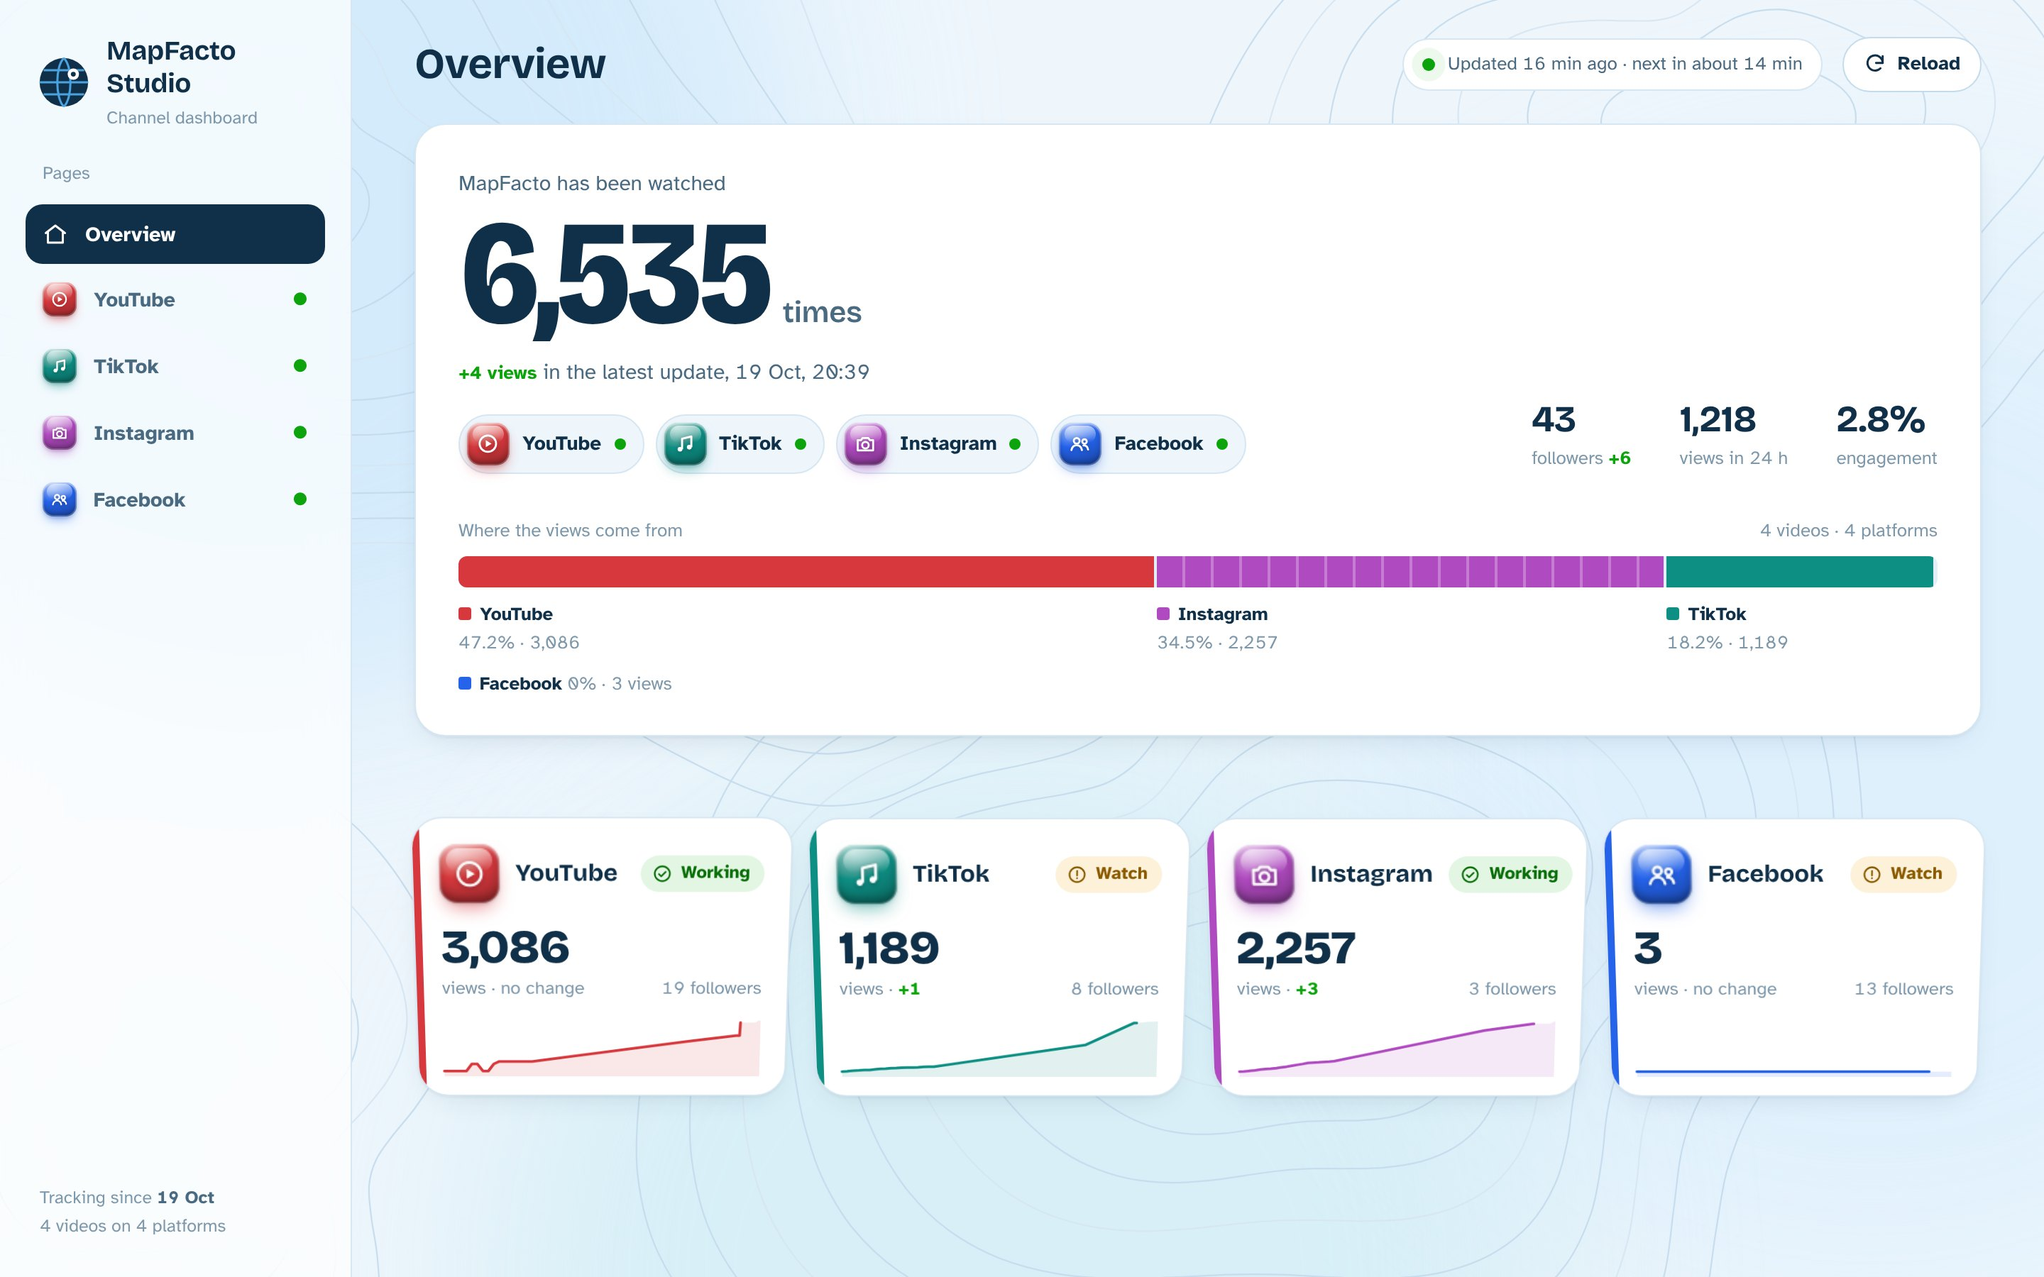
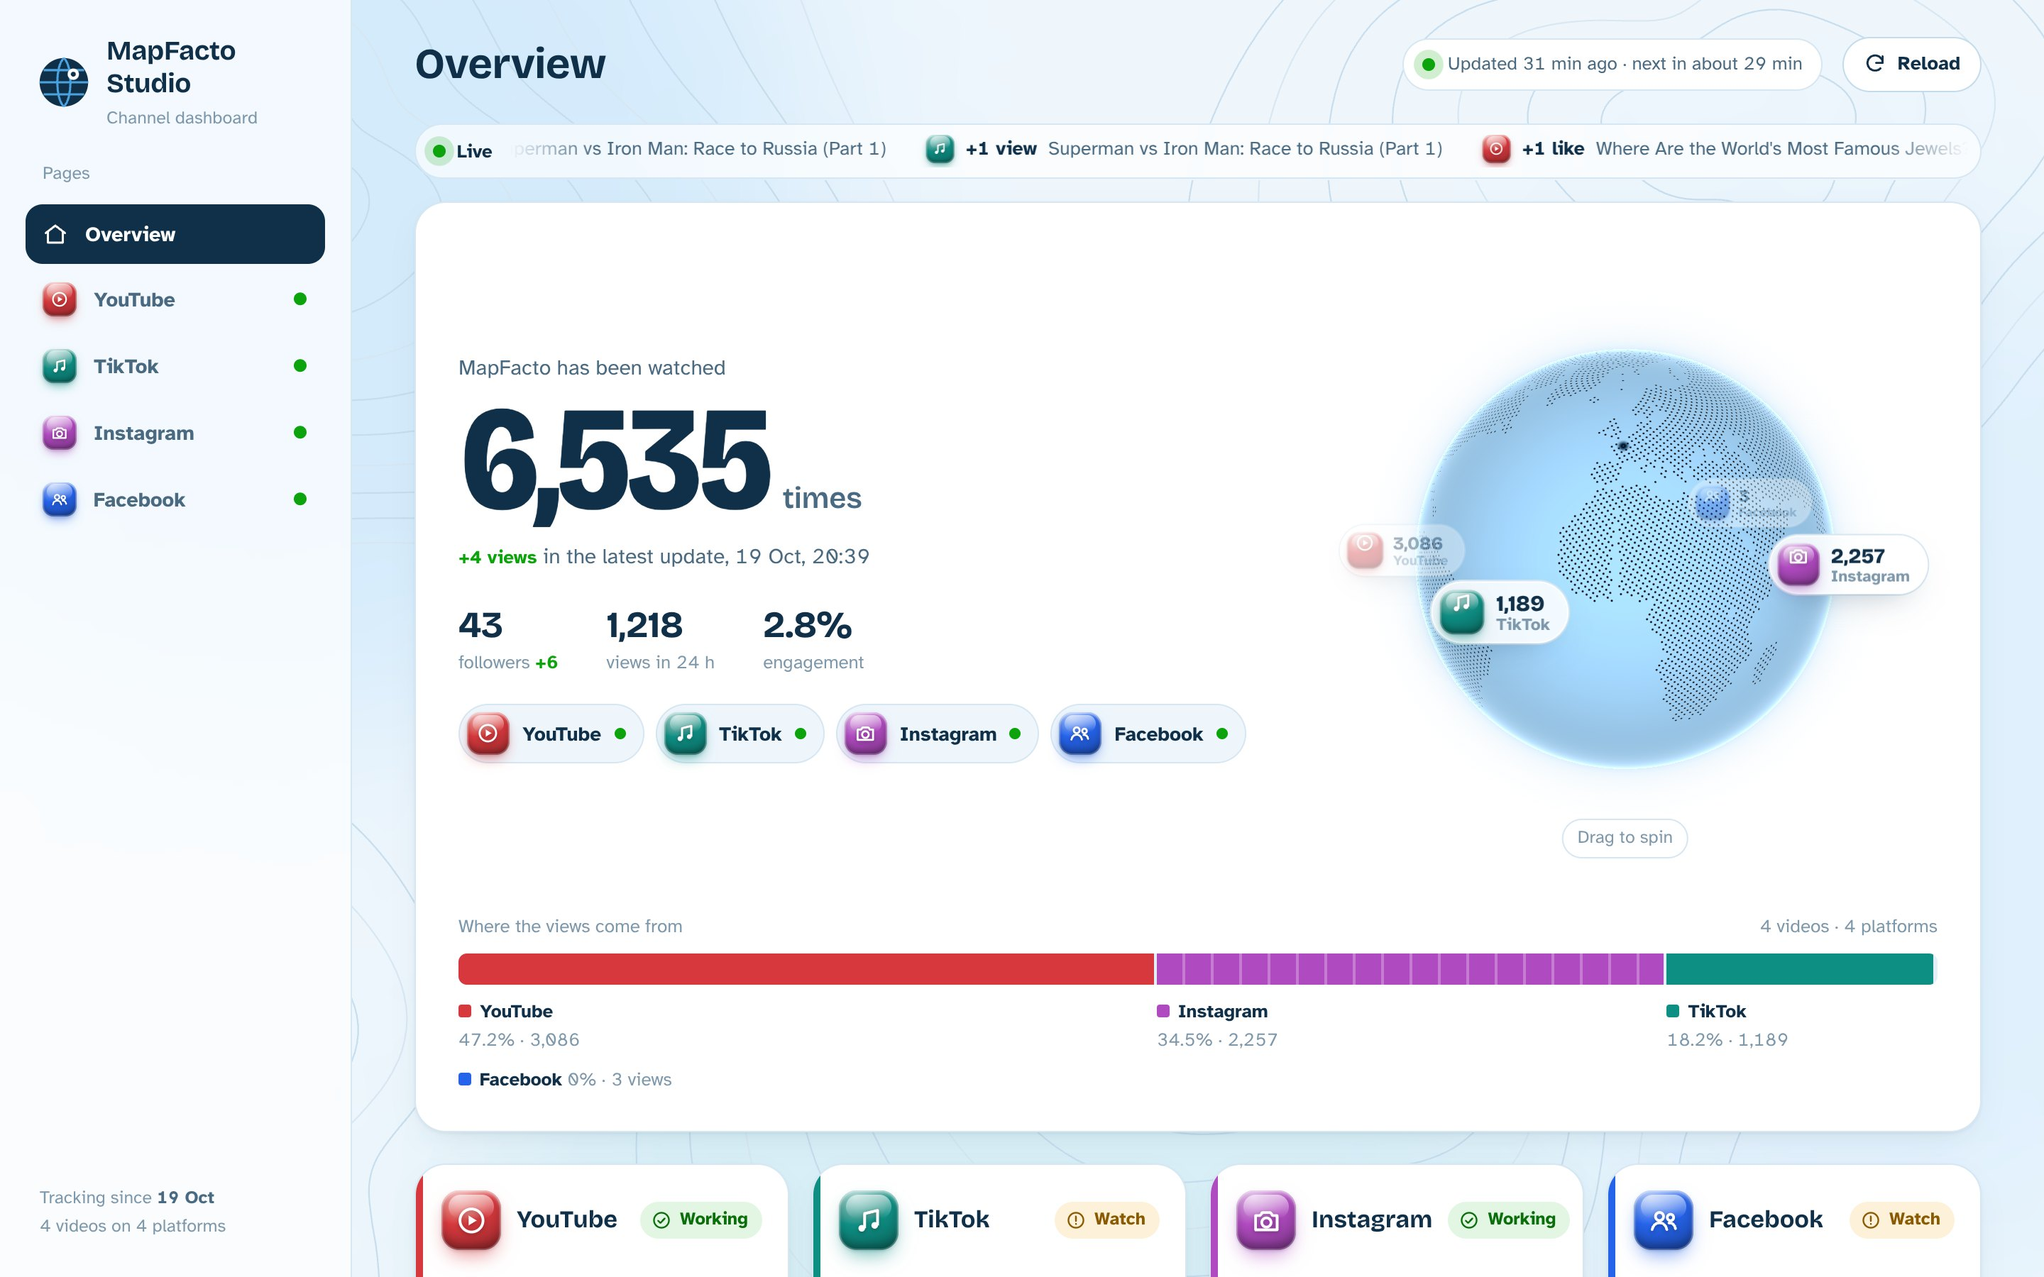
Dashboard v3: draggable globe hero and richer motion
- Hero globe (cobe, the engine behind Magic UI's Globe): dotted world in the
  sky palette with a Paris pin; grab to spin with momentum, then it drifts.
  The four platforms orbit it with their total views.
- Live ticker of the latest changes (marquee, pauses on hover).
- Card borders light up around the cursor (Magic UI magic-card effect).
- Split-text blur-in for page titles and section headings (GSAP SplitText).
- Sheen sweep across the 3D badges; cursor ring turns into a Drag label
  over the globe.
- Globe pauses when off screen; reduced-motion visitors get a still page.

Claude-Session: https://claude.ai/code/session_01W8tzriCEG18CiGamybK4oL

diff --git a/docs/styles.css b/docs/styles.css
@@ -437,3 +437,94 @@ a.btn { text-decoration: none; }
     0 1px 2px rgba(16, 48, 74, .16);
 }
 .b3d.has-logo img { position: relative; width: 66%; height: 66%; object-fit: contain; filter: drop-shadow(0 1px 1px rgba(0, 0, 0, .18)); }
+
+/* ================================================================ v3: globe hero, ticker, glow borders, sheen */
+.hero-grid { display: grid; grid-template-columns: minmax(0, 1fr) minmax(300px, 440px); gap: 24px; align-items: center; }
+.hero-copy .hero-stats { margin-top: 22px; justify-content: start; grid-template-columns: repeat(3, auto); }
+.globe-wrap { position: relative; width: 100%; aspect-ratio: 1; max-width: 440px; justify-self: end; touch-action: none; }
+.globe {
+  width: 100%; height: 100%; display: block; cursor: grab; opacity: 0; transition: opacity 1.4s ease;
+  contain: layout paint size;
+}
+.globe.on { opacity: 1; }
+.globe-wrap.grabbing .globe { cursor: grabbing; }
+.globe-wrap::before { /* soft halo */
+  content: ""; position: absolute; inset: 6%; border-radius: 50%; z-index: -1;
+  background: radial-gradient(circle at 50% 50%, rgba(74, 163, 223, .22), rgba(74, 163, 223, 0) 68%);
+}
+.orbit { position: absolute; inset: 0; pointer-events: none; }
+.sat {
+  position: absolute; left: 50%; top: 50%; display: inline-flex; align-items: center; gap: 8px; pointer-events: auto;
+  padding: 5px 12px 5px 5px; border-radius: 999px; text-decoration: none; color: var(--ink); white-space: nowrap;
+  background: rgba(255, 255, 255, .86); backdrop-filter: blur(8px); border: 1px solid rgba(255, 255, 255, .9);
+  box-shadow: 0 10px 24px -14px rgba(16, 48, 74, .5), 0 0 0 1px var(--line);
+  transition: opacity .3s; will-change: transform;
+}
+.sat span { display: flex; flex-direction: column; line-height: 1.05; font-size: 11.5px; color: var(--ink-3); font-weight: 700; }
+.sat b { font: 800 15px/1.1 var(--display); color: var(--ink); letter-spacing: -.01em; }
+.globe-hint {
+  position: absolute; left: 50%; bottom: 2%; transform: translateX(-50%); font-size: 12.5px; color: var(--ink-3);
+  background: rgba(255, 255, 255, .75); padding: 3px 10px; border-radius: 999px; border: 1px solid var(--line);
+  transition: opacity .6s;
+}
+.globe-wrap.spun .globe-hint { opacity: 0; }
+.globe-wrap.no-webgl .globe { display: none; }
+
+/* live ticker (marquee) */
+.ticker {
+  display: flex; align-items: center; gap: 12px; margin-bottom: 16px; padding: 7px 8px 7px 12px; overflow: hidden;
+  background: rgba(255, 255, 255, .7); backdrop-filter: blur(10px); border: 1px solid var(--line); border-radius: 999px;
+}
+.ticker-label { display: inline-flex; align-items: center; gap: 8px; font-weight: 700; font-size: 13px; color: var(--ink); flex: none; }
+.ticker-track {
+  overflow: hidden; flex: 1; min-width: 0;
+  -webkit-mask: linear-gradient(90deg, transparent, #000 6%, #000 94%, transparent);
+  mask: linear-gradient(90deg, transparent, #000 6%, #000 94%, transparent);
+}
+.ticker-run { display: inline-flex; gap: 28px; white-space: nowrap; animation: marquee 38s linear infinite; padding-right: 28px; }
+.ticker:hover .ticker-run { animation-play-state: paused; }
+@keyframes marquee { to { transform: translateX(-50%); } }
+.tk { display: inline-flex; align-items: center; gap: 8px; font-size: 13.5px; color: var(--ink-2); }
+.tk b { color: var(--ink); }
+
+/* borders that light up around the cursor (Magic UI "magic card") */
+.glow { position: relative; }
+.glow::after {
+  content: ""; position: absolute; inset: 0; border-radius: inherit; padding: 1.5px; pointer-events: none; z-index: 2;
+  background: radial-gradient(260px circle at var(--gx, -400px) var(--gy, -400px), var(--c, #4aa3df), rgba(74, 163, 223, .35) 35%, transparent 65%);
+  -webkit-mask: linear-gradient(#000 0 0) content-box, linear-gradient(#000 0 0);
+  -webkit-mask-composite: xor; mask-composite: exclude; opacity: 0; transition: opacity .35s;
+}
+.glow:hover::after { opacity: 1; }
+
+/* sheen sweeping across the 3D badges */
+.b3d { overflow: hidden; }
+.b3d .sheen {
+  position: absolute; inset: -20%; pointer-events: none;
+  background: linear-gradient(115deg, transparent 38%, rgba(255, 255, 255, .7) 50%, transparent 62%);
+  transform: translateX(-120%);
+}
+.pcard:hover .b3d .sheen, .nav a:hover .b3d .sheen, .hp:hover .b3d .sheen, .sat:hover .b3d .sheen { animation: sheen .9s ease forwards; }
+.b3d.float .sheen { animation: sheen 1.1s ease 1.2s 1, sheen-loop 6s ease 3s infinite; }
+@keyframes sheen { to { transform: translateX(120%); } }
+@keyframes sheen-loop { 0%, 80% { transform: translateX(-120%); } 100% { transform: translateX(120%); } }
+
+/* cursor ring shows a "Drag" label over the globe */
+.cursor-ring.drag { width: 64px; height: 64px; margin: -32px 0 0 -32px; background: rgba(16, 48, 74, .82); border-color: transparent; }
+.cursor-ring.drag::after { content: "Drag"; position: absolute; inset: 0; display: grid; place-items: center; color: #fff; font: 700 12.5px/1 var(--body); }
+.w, .ch { display: inline-block; will-change: transform, filter; }
+
+@media (max-width: 1180px) { .hero-grid { grid-template-columns: minmax(0, 1fr) minmax(260px, 360px); } }
+@media (max-width: 860px) {
+  .hero-grid { grid-template-columns: 1fr; }
+  .globe-wrap { justify-self: center; max-width: 340px; margin-top: 4px; }
+  .hero-copy .hero-stats { grid-template-columns: repeat(3, minmax(0, 1fr)); }
+  .sat { padding: 4px 10px 4px 4px; }
+  .sat b { font-size: 13.5px; }
+}
+@media (prefers-reduced-motion: reduce) {
+  .ticker-run { animation: none; flex-wrap: wrap; white-space: normal; }
+  .ticker-run > .tk:nth-child(n + 13) { display: none; }
+  .b3d .sheen { display: none; }
+}
+.globe { width: 84%; height: 84%; margin: 8%; }

diff --git a/docs/app.js b/docs/app.js
@@ -43,8 +43,8 @@
   // If you upload a platform's official icon to docs/icons/<platform>.svg (or .png),
   // it replaces the generic symbol automatically, inside the same 3D tile.
   const badge = (p, size = 40, cls = "") => PL[p].logo
-    ? `<span class="b3d has-logo ${cls}" style="--c:${PL[p].c};--s:${size}px" aria-hidden="true"><img src="${PL[p].logo}" alt=""></span>`
-    : `<span class="b3d ${cls}" style="--c:${PL[p].c};--s:${size}px" aria-hidden="true"><svg viewBox="0 0 24 24" stroke="#fff">${GLYPH[p]}</svg></span>`;
+    ? `<span class="b3d has-logo ${cls}" style="--c:${PL[p].c};--s:${size}px" aria-hidden="true"><img src="${PL[p].logo}" alt=""><i class="sheen"></i></span>`
+    : `<span class="b3d ${cls}" style="--c:${PL[p].c};--s:${size}px" aria-hidden="true"><svg viewBox="0 0 24 24" stroke="#fff">${GLYPH[p]}</svg><i class="sheen"></i></span>`;
   const probe = (url) => new Promise((ok) => { const i = new Image(); i.onload = () => ok(url); i.onerror = () => ok(null); i.src = url; });
   async function findLogos() {
     await Promise.all(ORDER.map(async (p) => {
@@ -405,19 +405,27 @@
         ${spark(r.timeline, PL[p].c)}
       </a>`;
     }).join("");
+    const tick = (DATA.updates || []).slice(0, 12).map((u) => `<span class="tk">${badge(u.platform, 20, "sm")}<b>${u.is_new ? "New video" : (() => { const m = [["views", u.d_views], ["likes", u.d_likes], ["comments", u.d_comments], ["shares", u.d_shares]].find(([, v]) => v); return m ? `${m[1] > 0 ? "+" : "−"}${plural(Math.abs(m[1]), m[0].slice(0, -1))}` : ""; })()}</b> ${esc(u.title)}</span>`).join("");
+    const ticker = tick ? `<div class="ticker" aria-label="Latest changes"><span class="ticker-label"><span class="pulse"></span>Live</span><div class="ticker-track"><div class="ticker-run">${tick}${tick}</div></div></div>` : "";
     $("#view").innerHTML = `<div class="view">
+      ${ticker}
       <section class="panel hero" aria-label="Summary">
-        <div class="hero-top">
-          <div>
+        <div class="hero-top hero-grid">
+          <div class="hero-copy">
             <p class="hero-kicker">MapFacto has been watched</p>
             <p class="hero-number">${count(T.views, "total")}<small>times</small></p>
             <p class="hero-kicker" style="margin-top:10px">${delta(T.d_last, "views")} in the latest update, ${dayTime(DATA.last_pull)}</p>
+            <div class="hero-stats">
+              <div class="hstat"><b>${count(T.followers, "fol")}</b><span>followers ${delta(T.followers_d24)}</span></div>
+              <div class="hstat"><b>${count(T.g24, "g24")}</b><span>views in 24 h</span></div>
+              <div class="hstat"><b>${count(T.engagement, "eng", 1, "%")}</b><span>engagement</span></div>
+            </div>
             <div class="hero-platforms">${ORDER.map((p) => `<a class="hp" href="#/${PL[p].slug}">${badge(p, 30, "sm")}<span>${p}</span><i class="${DATA.status[p].ok ? "ok" : "err"}" title="${DATA.status[p].ok ? "Connected" : "Problem"}"></i></a>`).join("")}</div>
           </div>
-          <div class="hero-stats">
-            <div class="hstat"><b>${count(T.followers, "fol")}</b><span>followers ${delta(T.followers_d24)}</span></div>
-            <div class="hstat"><b>${count(T.g24, "g24")}</b><span>views in 24 h</span></div>
-            <div class="hstat"><b>${count(T.engagement, "eng", 1, "%")}</b><span>engagement</span></div>
+          <div class="globe-wrap" aria-label="Interactive globe: drag to spin. The four platforms orbit it with their total views.">
+            <canvas class="globe" id="globe"></canvas>
+            <div class="orbit">${ORDER.map((p, i) => `<a class="sat" href="#/${PL[p].slug}" data-i="${i}" style="--c:${PL[p].c}">${badge(p, 30, "sm")}<span><b>${fmt(P[p].views)}</b>${p}</span></a>`).join("")}</div>
+            <span class="globe-hint">Drag to spin</span>
           </div>
         </div>
         <div class="scale">
@@ -460,6 +468,7 @@
       $("#matrix").innerHTML = matrixHTML();
       paintMatrix();
     }));
+    window.MF_GLOBE?.mount($(".globe-wrap"));
     lineChart("c-growth", ORDER);
     dailyChart("c-daily", ORDER);
     logChart("c-log");
@@ -521,6 +530,7 @@
 
   // ---------------------------------------------------------------- render + routing
   function render() {
+    window.MF_GLOBE?.destroy();
     charts.forEach((c) => c.dispose());
     charts = [];
     const slug = (location.hash.replace(/^#\/?/, "") || "overview").toLowerCase();

diff --git a/docs/globe.js b/docs/globe.js
@@ -1,0 +1,103 @@
+/* MapFacto Studio · hero globe
+   WebGL dotted globe (cobe, as used by Magic UI's Globe component) that you can grab and
+   spin. It keeps turning with momentum after you let go, then settles into a slow drift.
+   The four platforms orbit it like satellites, moving with the globe's spin. */
+(() => {
+  "use strict";
+  const REDUCED = matchMedia("(prefers-reduced-motion: reduce)").matches;
+  const HOME = [48.8566, 2.3522]; // Paris, where MapFacto is made
+  let inst = null;
+
+  function mount(wrap) {
+    destroy();
+    if (!wrap || !window.createGlobe) return;
+    const canvas = wrap.querySelector("canvas");
+    const sats = [...wrap.querySelectorAll(".sat")];
+    const st = {
+      phi: 4.65, theta: 0.28, vPhi: 0, vTheta: 0, drag: null, auto: REDUCED ? 0 : 0.0032,
+      visible: true, w: 0,
+    };
+    const size = () => (st.w = canvas.offsetWidth);
+    size();
+
+    let globe;
+    try {
+      globe = createGlobe(canvas, {
+        devicePixelRatio: 2,
+        width: st.w * 2, height: st.w * 2, phi: st.phi, theta: st.theta,
+        dark: 0, diffuse: 0.5, mapSamples: 20000, mapBrightness: 1.5, mapBaseBrightness: 0,
+        baseColor: [0.62, 0.82, 0.97], markerColor: [0.06, 0.19, 0.29], glowColor: [0.86, 0.94, 1],
+        opacity: 0.95, scale: 1,
+        markers: [{ location: HOME, size: 0.075 }],
+        onRender: (s) => {
+          if (!st.drag) {
+            st.vPhi *= 0.95; st.vTheta *= 0.9;
+            st.phi += st.auto + st.vPhi;
+            st.theta += st.vTheta + (0.28 - st.theta) * 0.02; // ease back to the default tilt
+          }
+          s.phi = st.phi; s.theta = st.theta;
+          s.width = st.w * 2; s.height = st.w * 2;
+          placeSats();
+        },
+      });
+    } catch (e) {
+      wrap.classList.add("no-webgl");
+      return;
+    }
+    requestAnimationFrame(() => canvas.classList.add("on"));
+
+    // satellites ride an inclined orbit that turns with the globe
+    function placeSats() {
+      const R = wrap.offsetWidth * 0.41, n = sats.length;
+      sats.forEach((el, i) => {
+        const a = st.phi * 0.9 + (i / n) * Math.PI * 2;
+        const x = Math.sin(a) * R, z = Math.cos(a), y = Math.cos(a) * R * 0.2 - Math.sin(a) * R * 0.08;
+        const k = 0.78 + (z + 1) * 0.14;
+        el.style.transform = `translate(-50%, -50%) translate3d(${x.toFixed(1)}px, ${y.toFixed(1)}px, 0) scale(${k.toFixed(3)})`;
+        el.style.zIndex = z > -0.15 ? 3 : 1;
+        el.style.opacity = z > -0.15 ? 1 : 0.38;
+      });
+    }
+
+    // grab and spin (mouse, pen and touch)
+    const down = (e) => {
+      st.drag = { x: e.clientX, y: e.clientY, phi: st.phi, theta: st.theta, t: performance.now(), lx: e.clientX, ly: e.clientY };
+      st.vPhi = 0; st.vTheta = 0;
+      canvas.setPointerCapture(e.pointerId);
+      wrap.classList.add("grabbing");
+    };
+    const move = (e) => {
+      if (!st.drag) return;
+      const d = st.drag, k = 3.2 / st.w;
+      st.phi = d.phi + (e.clientX - d.x) * k;
+      st.theta = Math.max(-0.5, Math.min(0.9, d.theta + (e.clientY - d.y) * k * 0.6));
+      const now = performance.now(), dt = Math.max(8, now - d.t);
+      st.vPhi = ((e.clientX - d.lx) * k) * (16 / dt);
+      st.vTheta = ((e.clientY - d.ly) * k * 0.6) * (16 / dt);
+      d.t = now; d.lx = e.clientX; d.ly = e.clientY;
+    };
+    const up = () => {
+      if (!st.drag) return;
+      st.drag = null;
+      st.vPhi = Math.max(-0.25, Math.min(0.25, st.vPhi));
+      wrap.classList.remove("grabbing");
+      wrap.classList.add("spun");
+    };
+    canvas.addEventListener("pointerdown", down);
+    canvas.addEventListener("pointermove", move);
+    canvas.addEventListener("pointerup", up);
+    canvas.addEventListener("pointercancel", up);
+    const onResize = () => size();
+    addEventListener("resize", onResize);
+
+    // pause rendering when the hero is off screen
+    const io = new IntersectionObserver(([en]) => { st.visible = en.isIntersecting; globe.toggle?.(en.isIntersecting); });
+    io.observe(wrap);
+
+    inst = () => { io.disconnect(); removeEventListener("resize", onResize); globe.destroy(); };
+  }
+
+  function destroy() { if (inst) { inst(); inst = null; } }
+
+  window.MF_GLOBE = { mount, destroy };
+})();

diff --git a/docs/motion.js b/docs/motion.js
@@ -19,6 +19,7 @@
   }
   root.classList.add("motion");
   if (window.ScrollTrigger) G.registerPlugin(ScrollTrigger);
+  if (window.SplitText) G.registerPlugin(SplitText);
 
   // ---------------------------------------------------------------- smooth scroll
   let lenis = null;
@@ -47,12 +48,37 @@
     }, { passive: true });
     document.addEventListener("pointerleave", () => { shown = false; G.to([glow, ring], { autoAlpha: 0, duration: 0.3 }); });
     document.addEventListener("pointerover", (e) => {
-      const hit = e.target.closest("a, button, .pcard, .cell, .scale-seg, .vrow");
+      const onGlobe = !!e.target.closest(".globe-wrap canvas");
+      ring.classList.toggle("drag", onGlobe);
+      const hit = onGlobe ? null : e.target.closest("a, button, .pcard, .cell, .scale-seg, .vrow");
       ring.classList.toggle("hover", !!hit);
       ring.style.setProperty("--rc", hit?.style.getPropertyValue("--c") || hit?.closest("[style*='--c']")?.style.getPropertyValue("--c") || "");
     });
     addEventListener("pointerdown", () => G.to(ring, { scale: 0.8, duration: 0.15 }));
     addEventListener("pointerup", () => G.to(ring, { scale: 1, duration: 0.3, ease: "back.out(3)" }));
+  }
+
+  // ---------------------------------------------------------------- glowing borders that follow the cursor
+  if (FINE) {
+    document.addEventListener("pointermove", (e) => {
+      const el = e.target.closest?.(".glow");
+      if (!el) return;
+      const r = el.getBoundingClientRect();
+      el.style.setProperty("--gx", `${e.clientX - r.left}px`);
+      el.style.setProperty("--gy", `${e.clientY - r.top}px`);
+    }, { passive: true });
+  }
+
+  // ---------------------------------------------------------------- split-text headings
+  function splitIn(el, opts = {}) {
+    if (!window.SplitText || !el || !el.textContent.trim()) return;
+    const split = SplitText.create(el, { type: opts.chars ? "chars,words" : "words", wordsClass: "w", charsClass: "ch" });
+    G.from(opts.chars ? split.chars : split.words, {
+      yPercent: 70, autoAlpha: 0, filter: "blur(8px)", duration: opts.chars ? 0.6 : 0.75, ease: "power3.out",
+      stagger: opts.chars ? 0.022 : 0.05, delay: opts.delay || 0,
+      scrollTrigger: opts.scroll && window.ScrollTrigger ? { trigger: el, start: "top 92%", once: true } : undefined,
+      onComplete: () => split.revert(),
+    });
   }
 
   // ---------------------------------------------------------------- 3D tilt
@@ -128,6 +154,9 @@
       requestAnimationFrame(() => ScrollTrigger.refresh());
     }
 
+    splitIn(document.getElementById("pageTitle"), { chars: true });
+    q(".panel h2").forEach((h) => splitIn(h, { scroll: !h.closest(".hero, .pheader"), delay: h.closest(".pheader") ? 0.25 : 0 }));
+    q(".panel:not(.pheader), .pcard, .kpi").forEach((el) => el.classList.add("glow"));
     q(".pcard").forEach((el) => tilt(el, 7, 6));
     q(".kpi").forEach((el) => tilt(el, 6, 3));
     q(".hero, .pheader").forEach((el) => tilt(el, 1.8));

diff --git a/docs/index.html b/docs/index.html
@@ -14,6 +14,9 @@
   <script src="vendor/gsap.min.js" defer></script>
   <script src="vendor/ScrollTrigger.min.js" defer></script>
   <script src="vendor/lenis.min.js" defer></script>
+  <script src="vendor/SplitText.min.js" defer></script>
+  <script src="vendor/cobe.min.js" defer></script>
+  <script src="globe.js" defer></script>
   <script src="motion.js" defer></script>
   <script src="app.js" defer></script>
 </head>
